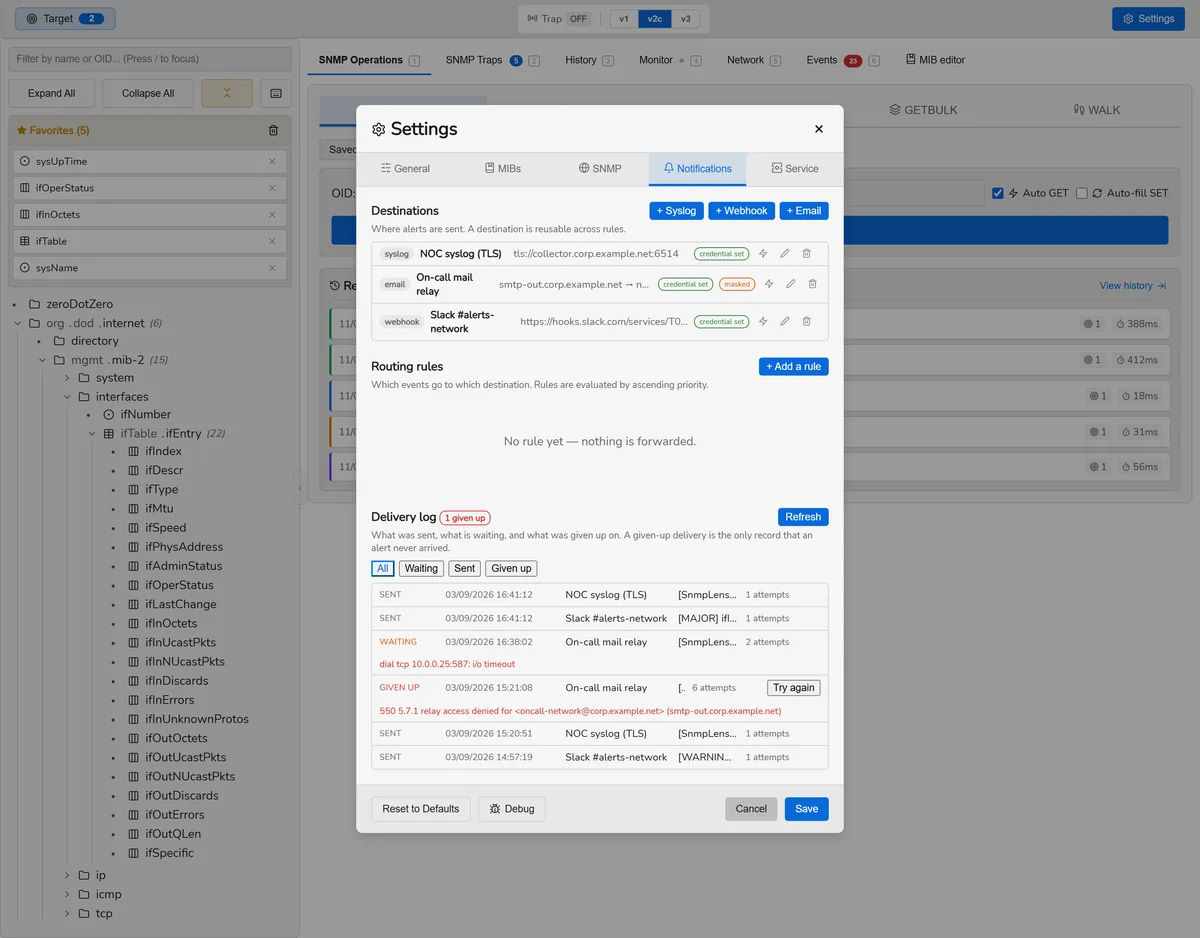
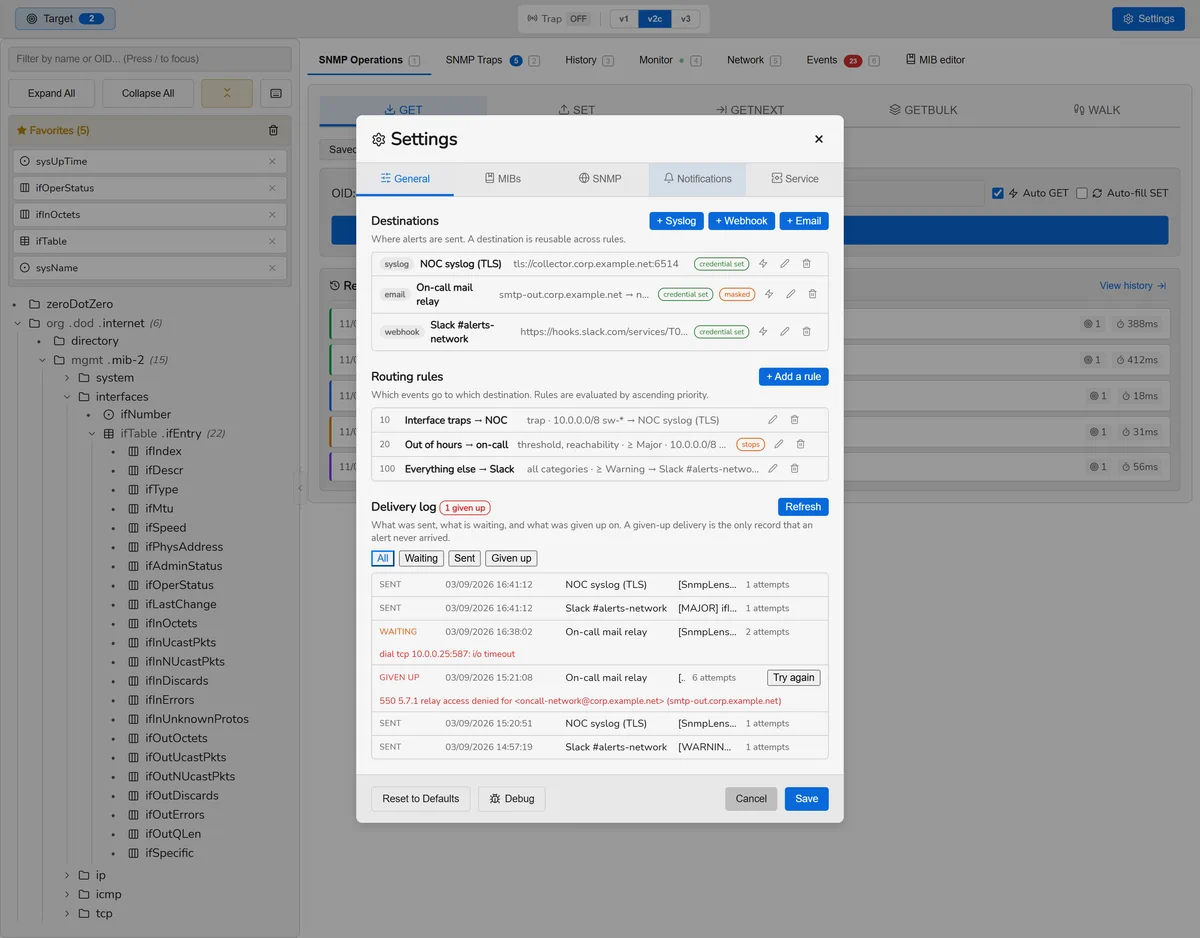
Stop handing sinkName to map, which was passing it the array index
I broke this. Giving `sinkName` a second parameter — part of making rendered
expressions name the state they depend on — fixed the call site that had one and
silently changed the meaning of the one that had none:

    (r.sinkIds || []).map(sinkName)

`Array.map` calls back with (element, index, array), so `all` received a NUMBER
and `all.find(...)` threw. The routing rules list stopped rendering: measured
against the screenshot taken before the change, three rules became "No rule yet
— nothing is forwarded." And because the site's images were regenerated in the
same series of commits, that empty state was published.

Two checks were watching and neither could see it. The reactivity check looks
for `sinkName(` and this site has no parentheses — and even widened to match the
bare name it stays silent, correctly: after the fix the function TAKES what it
needs, so there is no unnamed read left to report. The compiler is satisfied
too. It is an arity mismatch, which is a third thing.

So `overSuppliedCallbacks` is a third check: a function of more than one
parameter handed point-free to map, filter, forEach, find, some, every, flatMap
or sort. `['1','2','3'].map(parseInt)` is the canonical version of this and it
has been a JavaScript trap for twenty years. Zero findings across the 45
components once this one is fixed.

The reactivity check is widened at the same time to see a name used without
parentheses, since a function handed to `.map()` is called from the markup
[…]

Changed region(s): [[0.2775, 0.0928, 0.7092, 0.8966]]

diff --git a/frontend/src/settings/NotifySettings.svelte b/frontend/src/settings/NotifySettings.svelte
@@ -343,7 +343,7 @@
               {(r.match.categories || []).join(', ') || $_('notify.allCategories')}
               {#if r.match.minSeverity}· ≥ {$_('events.severity.' + r.match.minSeverity)}{/if}
               {#if (r.match.sources || []).length}· {(r.match.sources || []).join(' ')}{/if}
-              → {(r.sinkIds || []).map(sinkName).join(', ') || '—'}
+              → {(r.sinkIds || []).map((id) => sinkName(id, sinks)).join(', ') || '—'}
             </span>
             {#if r.stop}<span class="chip-flag">{$_('notify.stops')}</span>{/if}
             <button class="btn-copy-small" on:click={() => (editingRoute = JSON.parse(JSON.stringify(r)))} title={$_('common.edit')}>
